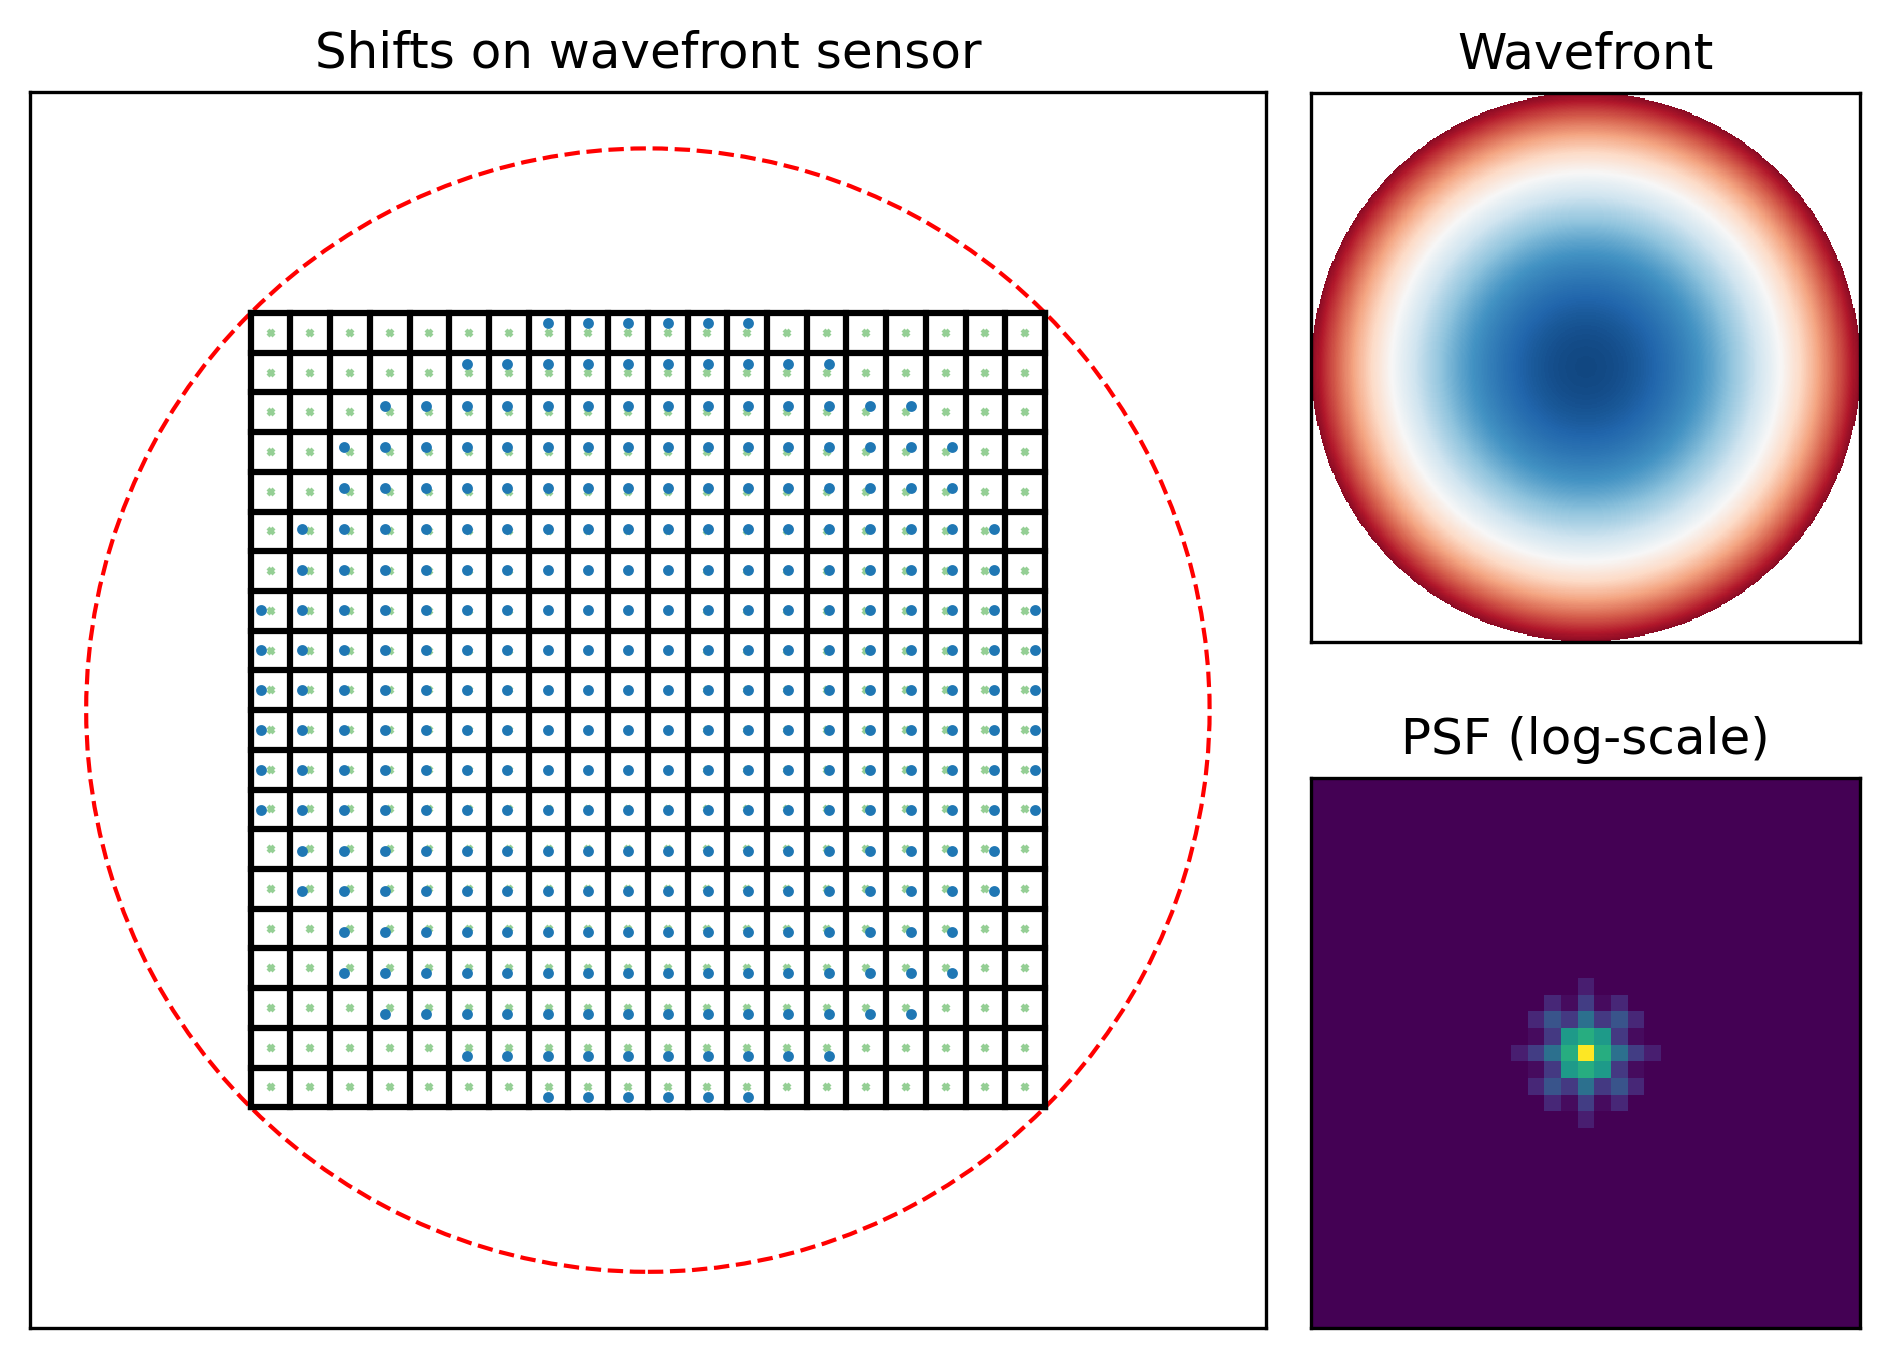
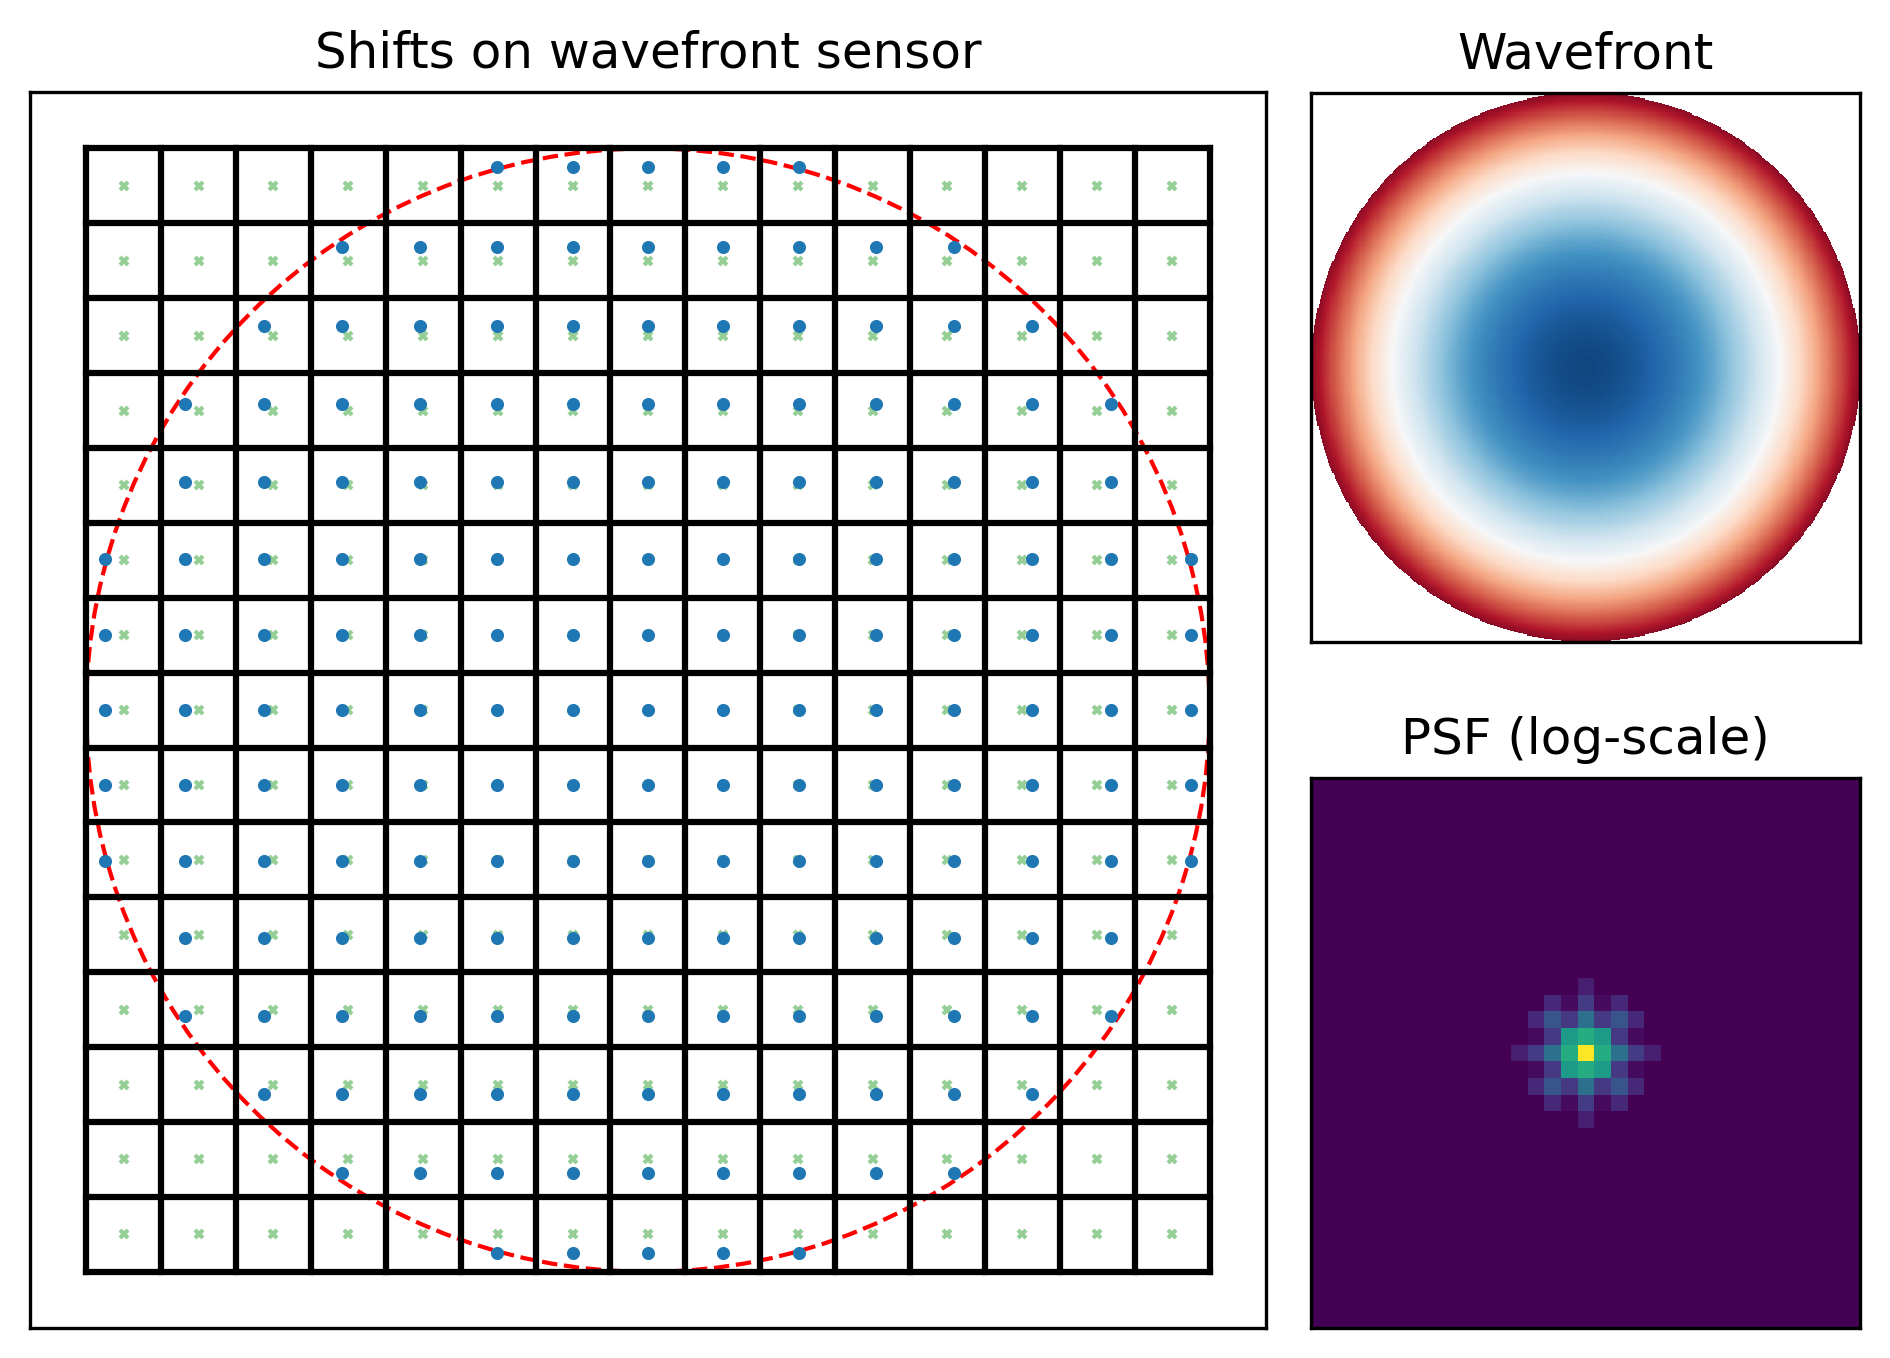
Plot subapartures in full scale

Changed region(s): [[0.0312, 0.0928, 0.6556, 0.9588]]

diff --git a/hswfs/plotting.py b/hswfs/plotting.py
@@ -64,9 +64,9 @@ def plot_shifts(
     x, y = get_subaperture_centers(grid_size=grid_size)
 
     # Draw the grid of subapertures
-    for z in np.linspace(-1 / np.sqrt(2), 1 / np.sqrt(2), grid_size + 1):
-        ax.plot((z, z), (-1 / np.sqrt(2), 1 / np.sqrt(2)), color="black")
-        ax.plot((-1 / np.sqrt(2), 1 / np.sqrt(2)), (z, z), color="black")
+    for z in np.linspace(-1 , 1 , grid_size + 1):
+        ax.plot((z, z), (-1 , 1 ), color="black")
+        ax.plot((-1 , 1 ), (z, z), color="black")
 
     # Plot the centers of the subapertures
     ax.plot(x.flatten(), y.flatten(), "x", ms=4*8/grid_size, color="C2", alpha=0.5)
@@ -76,7 +76,7 @@ def plot_shifts(
 
     # Determine a shrinkage factor to map the relative shifts into the right
     # reference frame (i.e., scale to the size of a subaperture in the plot)
-    factor = np.sqrt(2) / grid_size / 2
+    factor = np.sqrt(2) * np.sqrt(2) / grid_size / 2
 
     # Plot the observed position for each subapertures, which differs from the
     # center of the subaperture by the given shift vector

diff --git a/hswfs/utils.py b/hswfs/utils.py
@@ -53,9 +53,8 @@ def get_subaperture_centers(
 ) -> Tuple[np.ndarray, np.ndarray]:
     """
     Compute the positions of the centers of the subapertures of the
-    sensor. This assumes a simple geometry, where the sensor is taken
-    to be the largest square that can fit inside the unit circle, and
-    consists of a grid of `grid_size` x `grid_size` subapertures.
+    sensor. This assumes a simple geometry, and consists of a grid 
+    of `grid_size` x `grid_size` subapertures.
 
     Args:
         grid_size:  An integer specifying the size of the (quadratic)
@@ -67,9 +66,9 @@ def get_subaperture_centers(
     """
 
     x = np.linspace((1 / grid_size - 1), (1 - 1 / grid_size), grid_size)
-    x = 1 / np.sqrt(2) * np.repeat(x.reshape(1, -1), grid_size, axis=0)
+    x = np.repeat(x.reshape(1, -1), grid_size, axis=0)
     y = np.linspace((1 - 1 / grid_size), (1 / grid_size - 1), grid_size)
-    y = 1 / np.sqrt(2) * np.repeat(y.reshape(-1, 1), grid_size, axis=1)
+    y = np.repeat(y.reshape(-1, 1), grid_size, axis=1)
 
     return x, y
 

diff --git a/demo/hswfs_example.py b/demo/hswfs_example.py
@@ -33,7 +33,7 @@ if __name__ == "__main__":
 
     # Create a set of shifts for a HSWFS with a grid size of 8x8
     print("Generating shifts...", end=" ", flush=True)
-    shifts = generate_test_shifts(test_case="defocus", grid_size=20)
+    shifts = generate_test_shifts(test_case="defocus", grid_size=15)
     shifts = cut_to_circle(shifts)
     print("Done!", flush=True)
 
